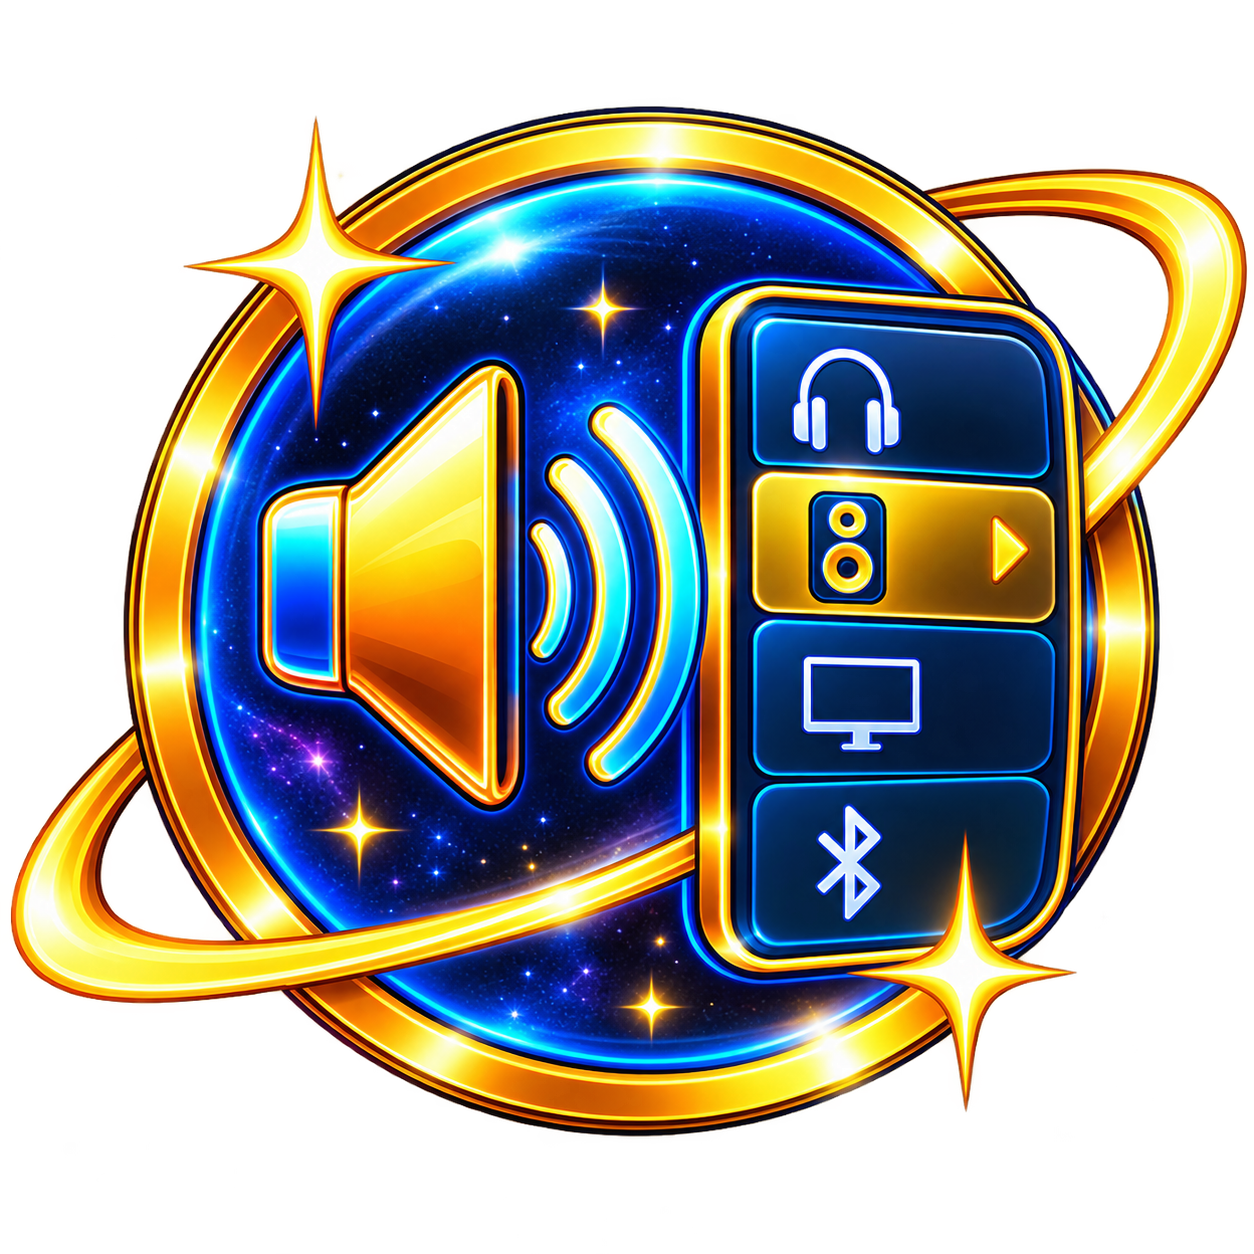
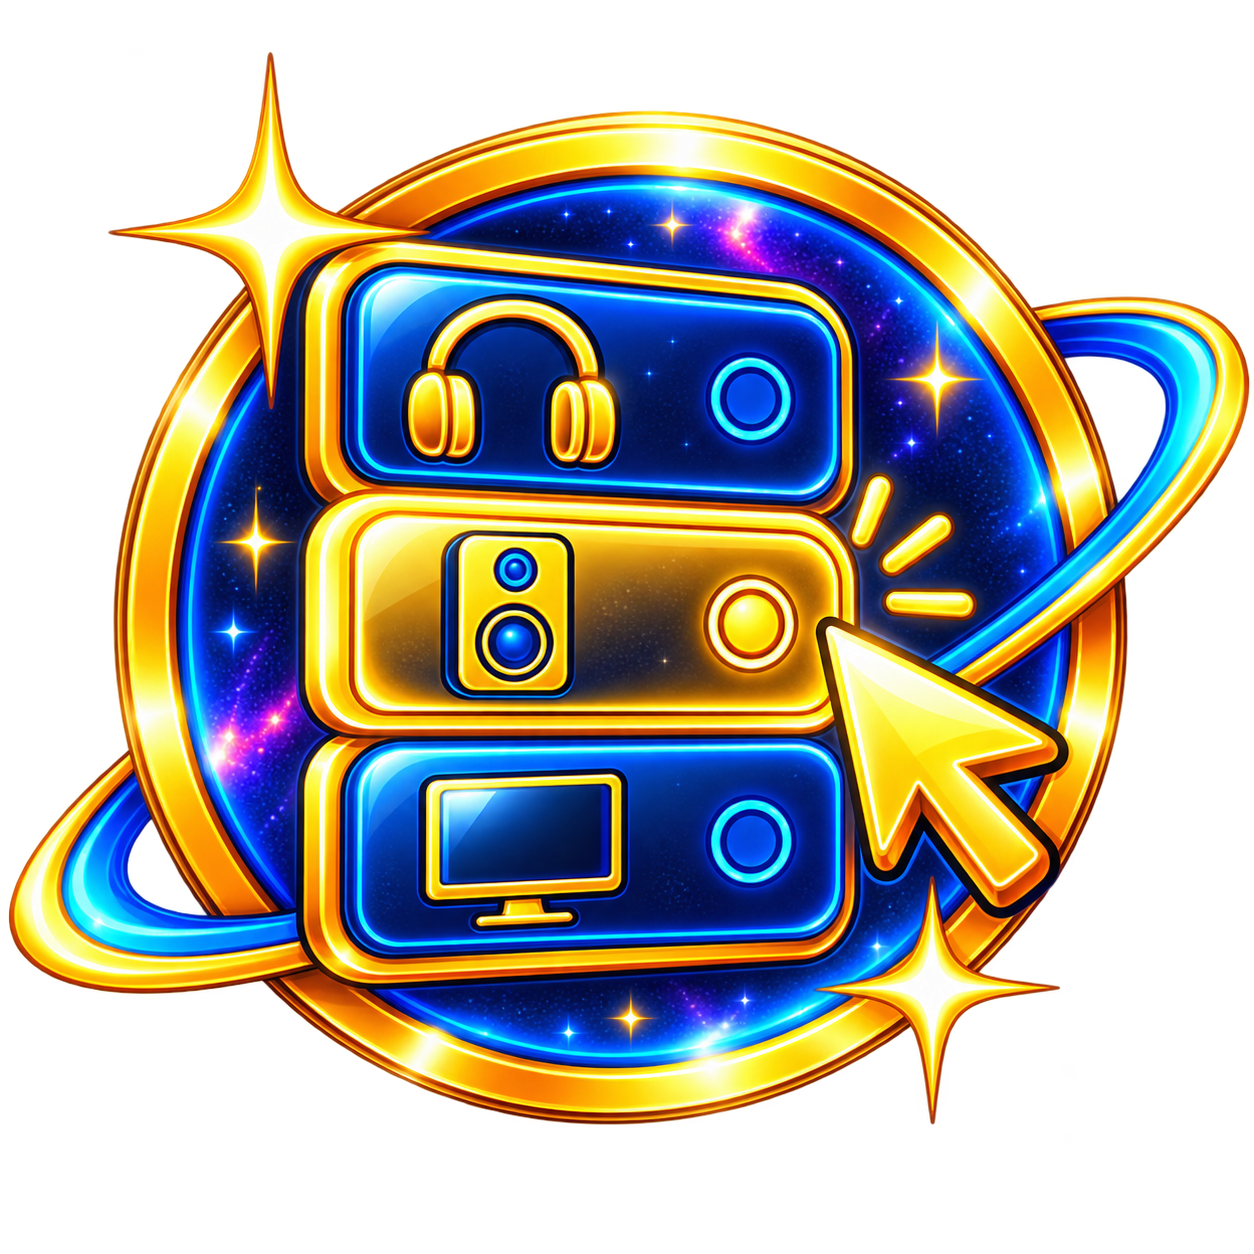
Hold a song whose device went away rather than end it
Switching headphones off made the stream's write fail 0.29 s before Qt reported the device gone; the engine read that failure as the song ending, so the poll skipped to the next song or left the last one at its start. The engine now marks the session interrupted and holds it; the transport says the move stopped the music and reopens the song where it was heard on the next press. Also the new output device artwork.

diff --git a/tests/application/test_following_the_output.py b/tests/application/test_following_the_output.py
@@ -36,6 +36,54 @@ def playing() -> tuple[Transport, RecordingPlayer]:
     return transport, player
 
 
+def interrupted() -> tuple[Transport, RecordingPlayer]:
+    """Playing, when the device went away underneath the stream.
+
+    Measured on 2026-09-19 through the shipped engine with headphones switched
+    off: the stream's write fails first, 0.29 s before Qt reports the device
+    gone. The engine then holds the track paused and says it was interrupted.
+    """
+    transport, player = playing()
+    player.interrupted = True
+    player.state = PlaybackState.PAUSED
+    return transport, player
+
+
+class TestADeviceGoneBeneathTheStream:
+    """Reported by Oliver on 2026-09-19: switching headphones off skipped to
+    the next song, else left the last one back at its start."""
+
+    def test_nothing_moves_on(self) -> None:
+        transport, player = interrupted()
+        assert transport.advance_if_finished() is False
+        assert player.calls == []
+
+    def test_the_move_that_follows_is_said_as_a_pause(self) -> None:
+        """Qt's report arrives after the stream stopped; it still stopped it."""
+        transport, player = interrupted()
+        assert transport.output_moved() is True
+        assert player.calls == []
+
+    def test_a_second_signal_for_it_says_nothing_more(self) -> None:
+        transport, _player = interrupted()
+        transport.output_moved()
+        assert transport.output_moved() is False
+
+    def test_play_reopens_where_it_was_heard(self) -> None:
+        """Even with no report from Qt: that stream can only be reopened."""
+        transport, player = interrupted()
+        transport.toggle()
+        assert player.calls[0] == "load"
+        assert f"seek {HEARD_FRAME}" in player.calls
+        assert player.calls[-1] == "play"
+
+    def test_nothing_loaded_is_nothing_to_say(self) -> None:
+        player = RecordingPlayer()
+        transport = Transport(player)
+        player.interrupted = True
+        assert transport.output_moved() is False
+
+
 class TestAMoveWhilePlaying:
     def test_the_music_is_paused(self) -> None:
         """The whole of what this is for."""

diff --git a/tests/infrastructure/test_pausing_is_not_an_ending.py b/tests/infrastructure/test_pausing_is_not_an_ending.py
@@ -160,15 +160,20 @@ class TestAPauseLandingOnTheFeeder:
 
 
 class TestADeviceThatFailsWhilePlaying:
-    """The other side of the same branch, which nothing used to exercise.
+    """The other side of the same branch: the device going away.
 
     A write refused while the resume is still set is the device going away
-    rather than a listener holding the track, so it does end playback. Without
-    a test the fix above could be widened to swallow every failure and no gate
-    would notice the track had stopped being able to end at all.
+    rather than a listener holding the track. It used to end the track, which
+    Oliver found on 2026-09-19 by switching his headphones off: the poll moved
+    to the next song from its start; on the last song it left that one back
+    at its beginning. Measured the same day through the shipped engine: the write
+    failed 0.29 s before Qt reported the device gone, so the ending always won.
+
+    A song does not end because a device did. It is interrupted: paused where
+    it was, so the transport can reopen it on whatever is there to play to.
     """
 
-    def test_the_track_ends(self, tmp_path) -> None:
+    def test_the_track_is_interrupted_rather_than_ended(self, tmp_path) -> None:
         stream = StoppedStreamRefuses()
         player = WasapiPlayback(opener=_opener(stream))
         try:
@@ -180,7 +185,16 @@ class TestADeviceThatFailsWhilePlaying:
             time.sleep(SETTLE)
             stream.broken = True
             time.sleep(SETTLE)
-            assert player.finished is True
+            assert player.finished is False
+            assert player.interrupted is True
+            assert player.state is PlaybackState.PAUSED
+        finally:
+            player.stop()
+
+    def test_a_stream_that_never_failed_is_not_interrupted(self, tmp_path) -> None:
+        player = _paused_partway(tmp_path)
+        try:
+            assert player.interrupted is False
         finally:
             player.stop()
 

diff --git a/stellody/infrastructure/audio.py b/stellody/infrastructure/audio.py
@@ -93,6 +93,12 @@ class WasapiPlayback:
         return session is not None and session.finished.is_set()
 
     @property
+    def interrupted(self) -> bool:
+        """Whether the open stream stopped because its device went away."""
+        session = self._session
+        return session is not None and session.interrupted
+
+    @property
     def report(self) -> OutputReport | None:
         """What the open stream actually delivers; None when nothing is loaded."""
         session = self._session
@@ -333,5 +339,9 @@ class WasapiPlayback:
                 # the device was refusing anyway.
                 if not session.resume.is_set():
                     continue
-                session.finished.set()
+                # Still meant to be playing, so the device went: headphones
+                # switched off, measured 2026-09-19. Not an ending, which moved
+                # the queue on; interrupted, held where it was for the
+                # transport to reopen wherever there is to play to.
+                session.interrupted = True
                 session.resume.clear()

diff --git a/stellody/application/output_following.py b/stellody/application/output_following.py
@@ -42,7 +42,14 @@ class OutputFollowing:
         state = self._player.state
         if not state.is_active:
             return False
+        already = self._output_moved
         self._output_moved = True
+        # The device went away beneath the stream before this report came:
+        # measured 2026-09-19, the write fails 0.29 s ahead of Qt. The engine
+        # has already held the track, so this move is what stopped the music.
+        if self._player.interrupted:
+            self._held = True
+            return not already
         if state is not PlaybackState.PLAYING:
             return False
         self._held = True

diff --git a/stellody/application/playback_ports.py b/stellody/application/playback_ports.py
@@ -94,6 +94,15 @@ class PlaybackPort(Protocol):
         ...
 
     @property
+    def interrupted(self) -> bool:
+        """Whether the open stream stopped because its device went away.
+
+        Not an ending: the track is held where it was. Such a stream cannot be
+        resumed, only opened again, which is the transport's to do.
+        """
+        ...
+
+    @property
     def crossings(self) -> int:
         """How many lined-up sources the device has run into by itself.
 

diff --git a/stellody/infrastructure/session.py b/stellody/infrastructure/session.py
@@ -45,6 +45,9 @@ class Session:
     buffer_frames: int = 0
     # The room a fresh start showed: the whole buffer, before anything queued.
     capacity: int | None = None
+    # Whether a write failed while playing, which is the device going away:
+    # the stream cannot be resumed, only opened again.
+    interrupted: bool = False
 
     def drop_follower(self) -> None:
         """Let go of whatever was lined up, closing its file."""

diff --git a/tests/recording_player.py b/tests/recording_player.py
@@ -62,6 +62,8 @@ class RecordingPlayer:
         # given; the default is keyed by the empty identity.
         self.device: OutputDevice | None = None
         self.refuses: dict[str, str] = {}
+        # Whether the open stream's device went away, as a test says it did.
+        self.interrupted = False
 
     def use_device(self, device: OutputDevice | None) -> None:
         """Record where later streams are to open."""

diff --git a/stellody/application/transport.py b/stellody/application/transport.py
@@ -236,7 +236,7 @@ class Transport(SoundSettings, QueueOrder, Stepping, OutputFollowing, OutputChoo
             self._player.pause()
             return
         if self._player.state is PlaybackState.PAUSED:
-            if self._output_moved:
+            if self._output_moved or self._player.interrupted:
                 self._reopen_where_paused()
                 return
             self._held = False
